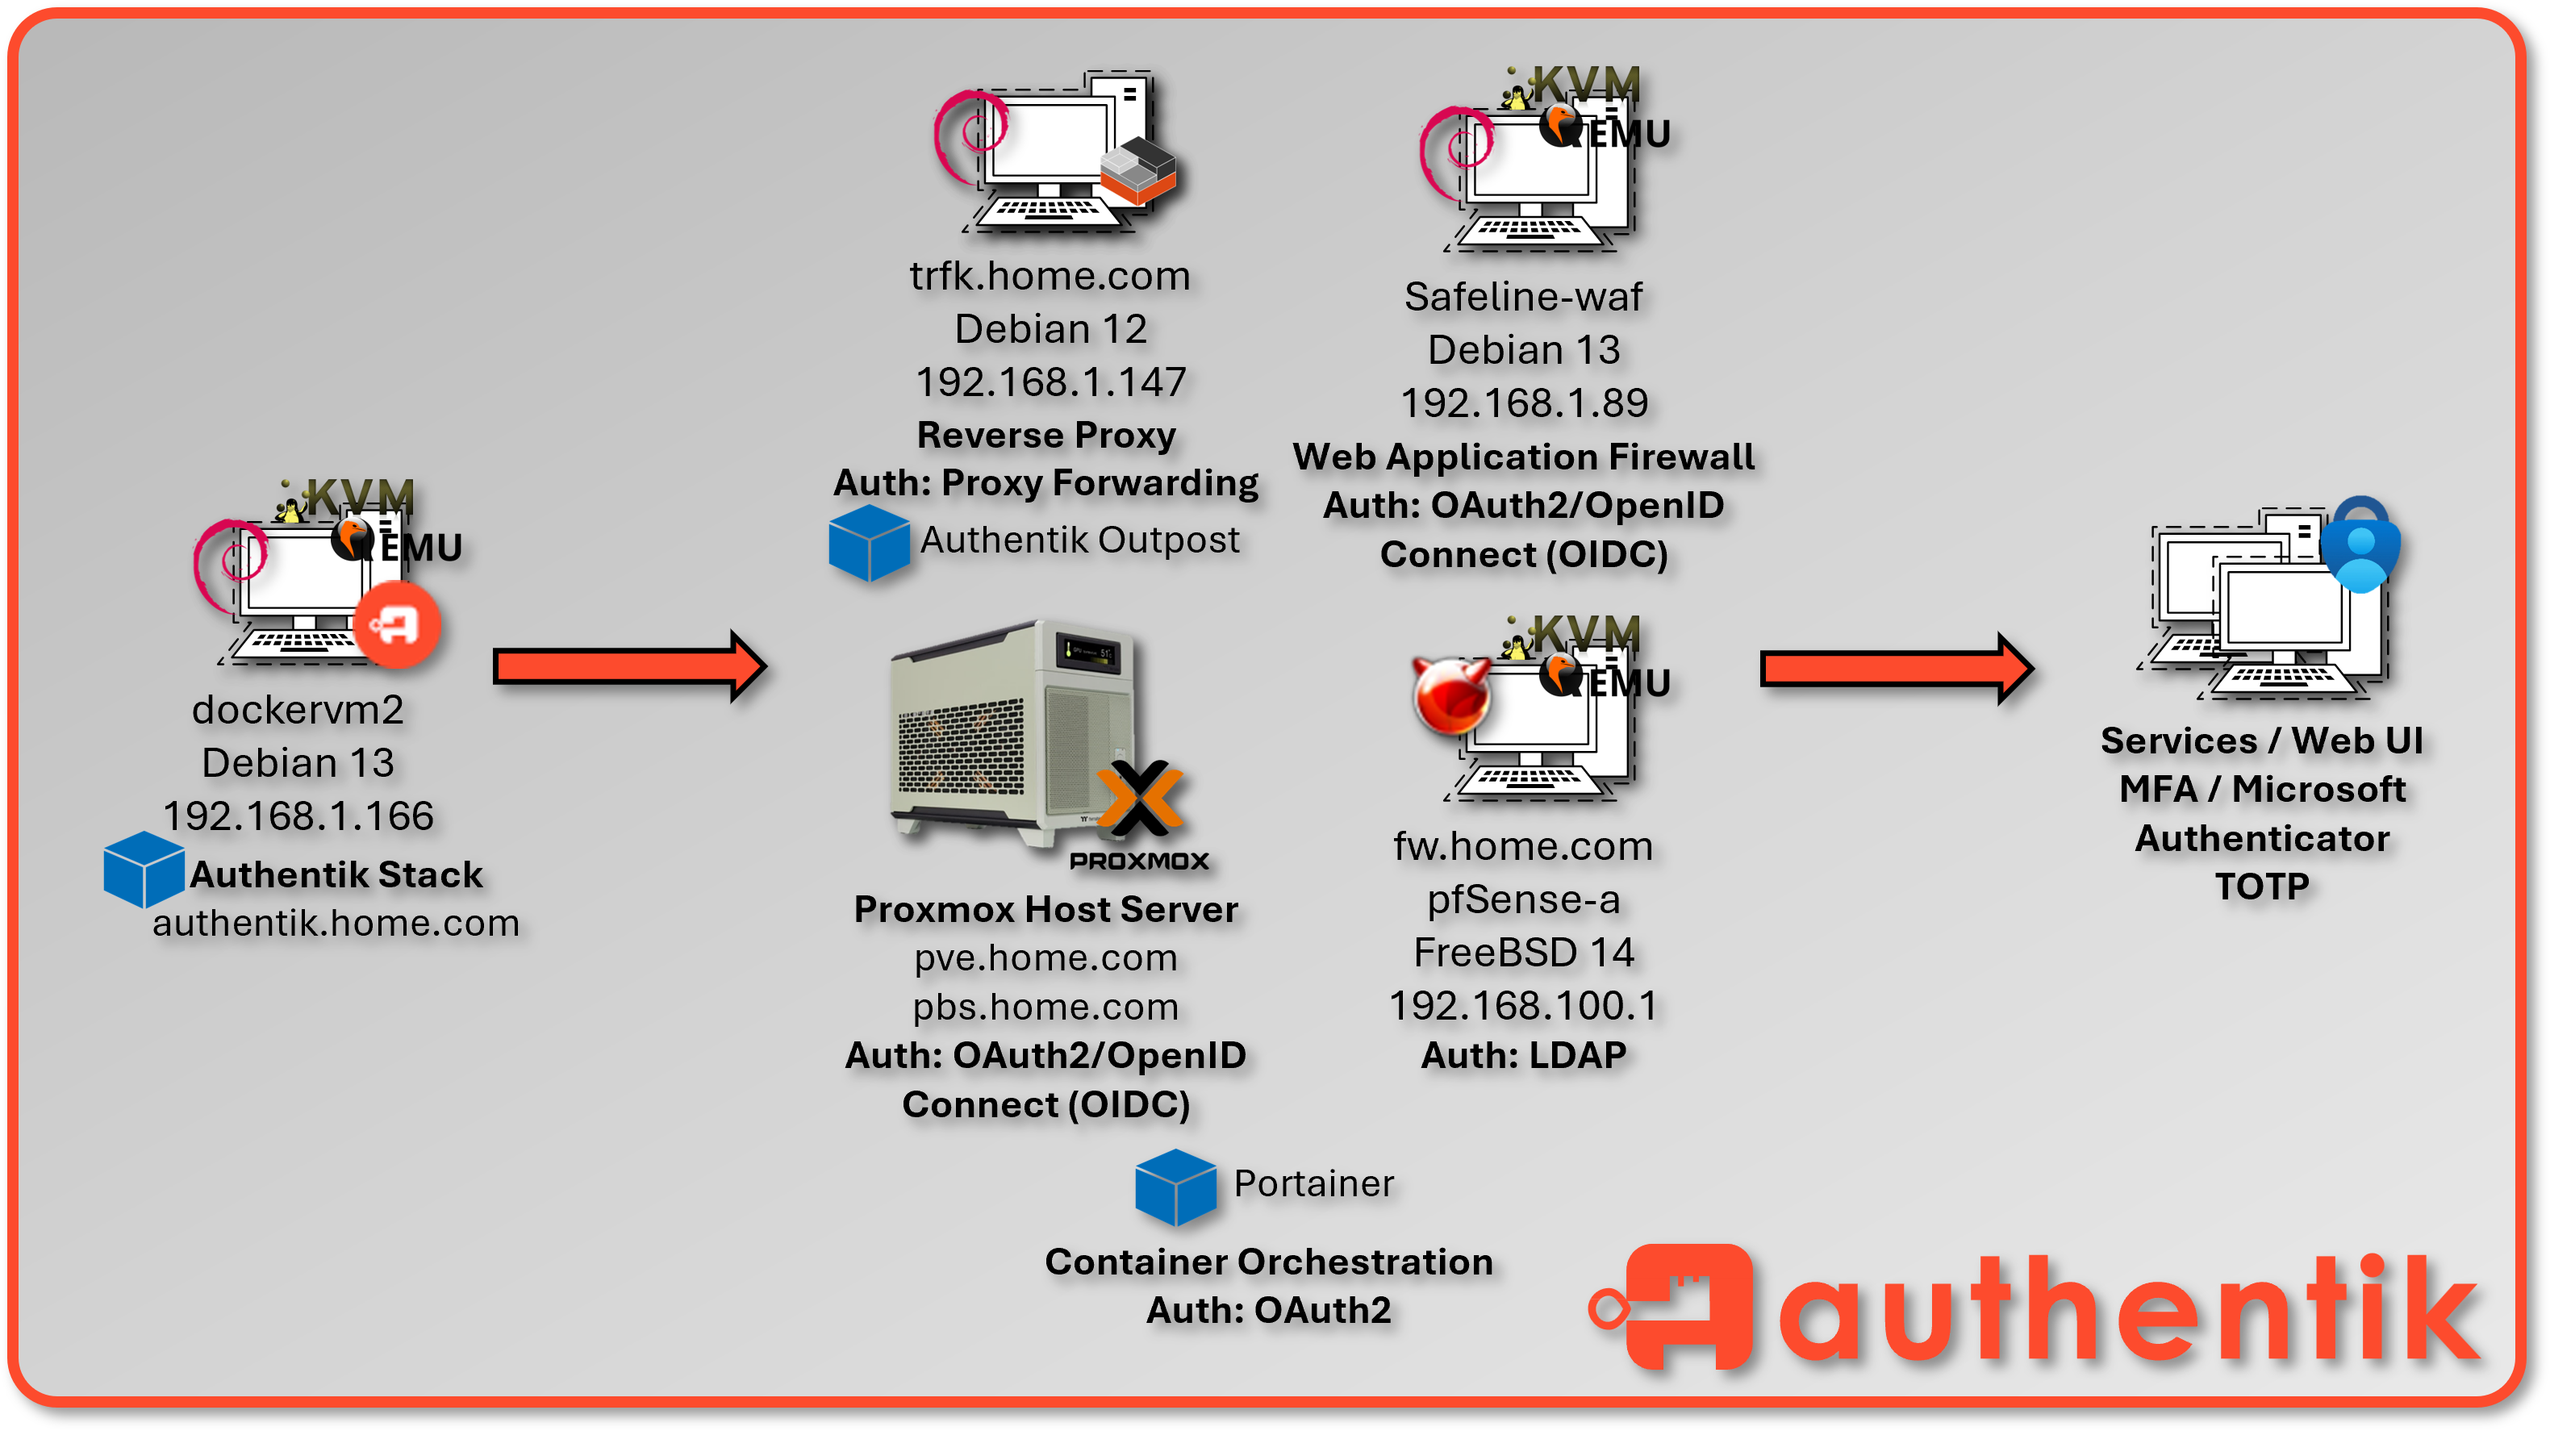
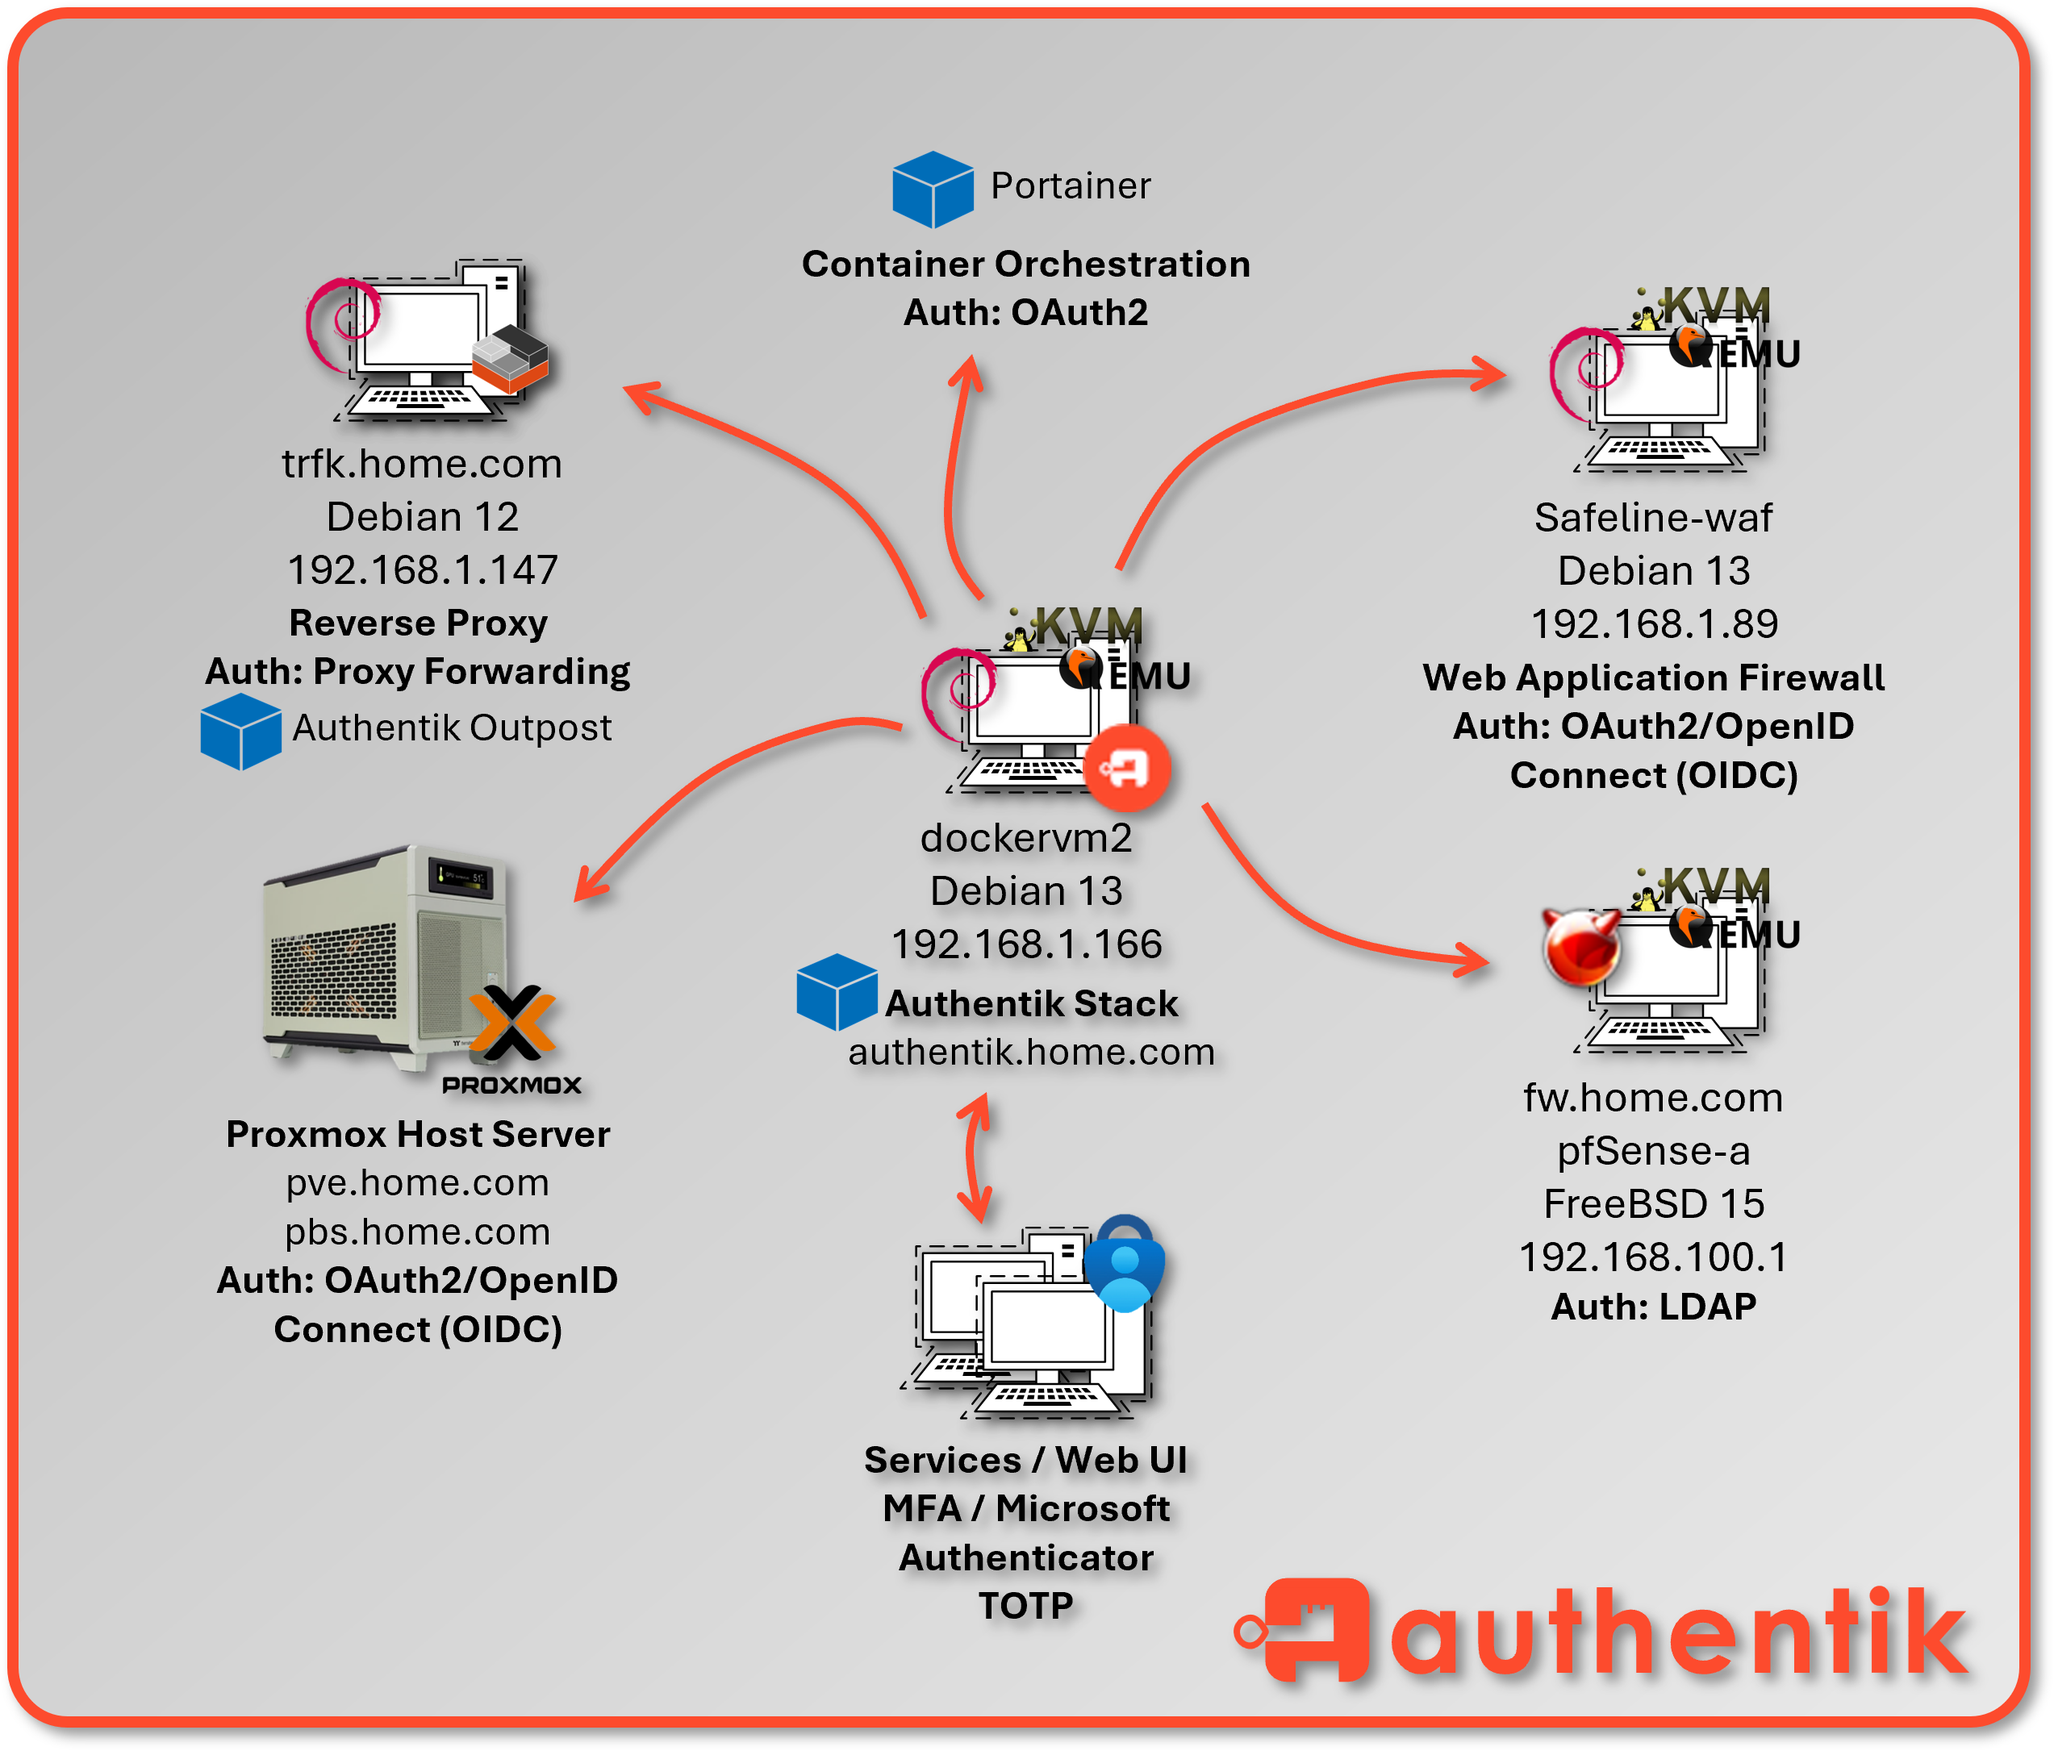
updates

Changed region(s): [[0.0, 0.0, 0.9929, 0.9921]]

diff --git a/docs/projects/homelab/06-apps-service.md b/docs/projects/homelab/06-apps-service.md
@@ -494,7 +494,24 @@ Multiple failed SSH login attempts in Wazuh will trigger an alert notification t
 
 ### Architecture Overview
 
-To enable secure, centralized access to internal services and simplify URL structures across the lab, reverse proxies were deployed in front of several web-facing applications. This eliminates the need to remember non-standard ports or paths, allowing services to be accessed via top-level FQDNs.
+
+
+<div class="two-col-right">
+  <div class="text-col">
+    <p>
+      To enable secure, centralized access to internal services and simplify URL structures across the lab, reverse proxies were deployed in front of several web-facing applications. This eliminates the need to remember non-standard ports or paths, allowing services to be accessed via top-level FQDNs.
+    </p>
+  </div>
+
+  <div class="image-col">
+    <figure>
+      <img src="/Career_Projects/assets/diagrams/proxy-ingress.png" alt="Heimdall Dashboard Screenshot">
+      <figcaption style="font-size:0.9rem; color:var(--md-secondary-text-color); margin-top:0.5rem;">
+        Traefik / Nginx-Ingress Overview
+      </figcaption>
+    </figure>
+  </div>
+</div>
 
 **Security Impact**
 
